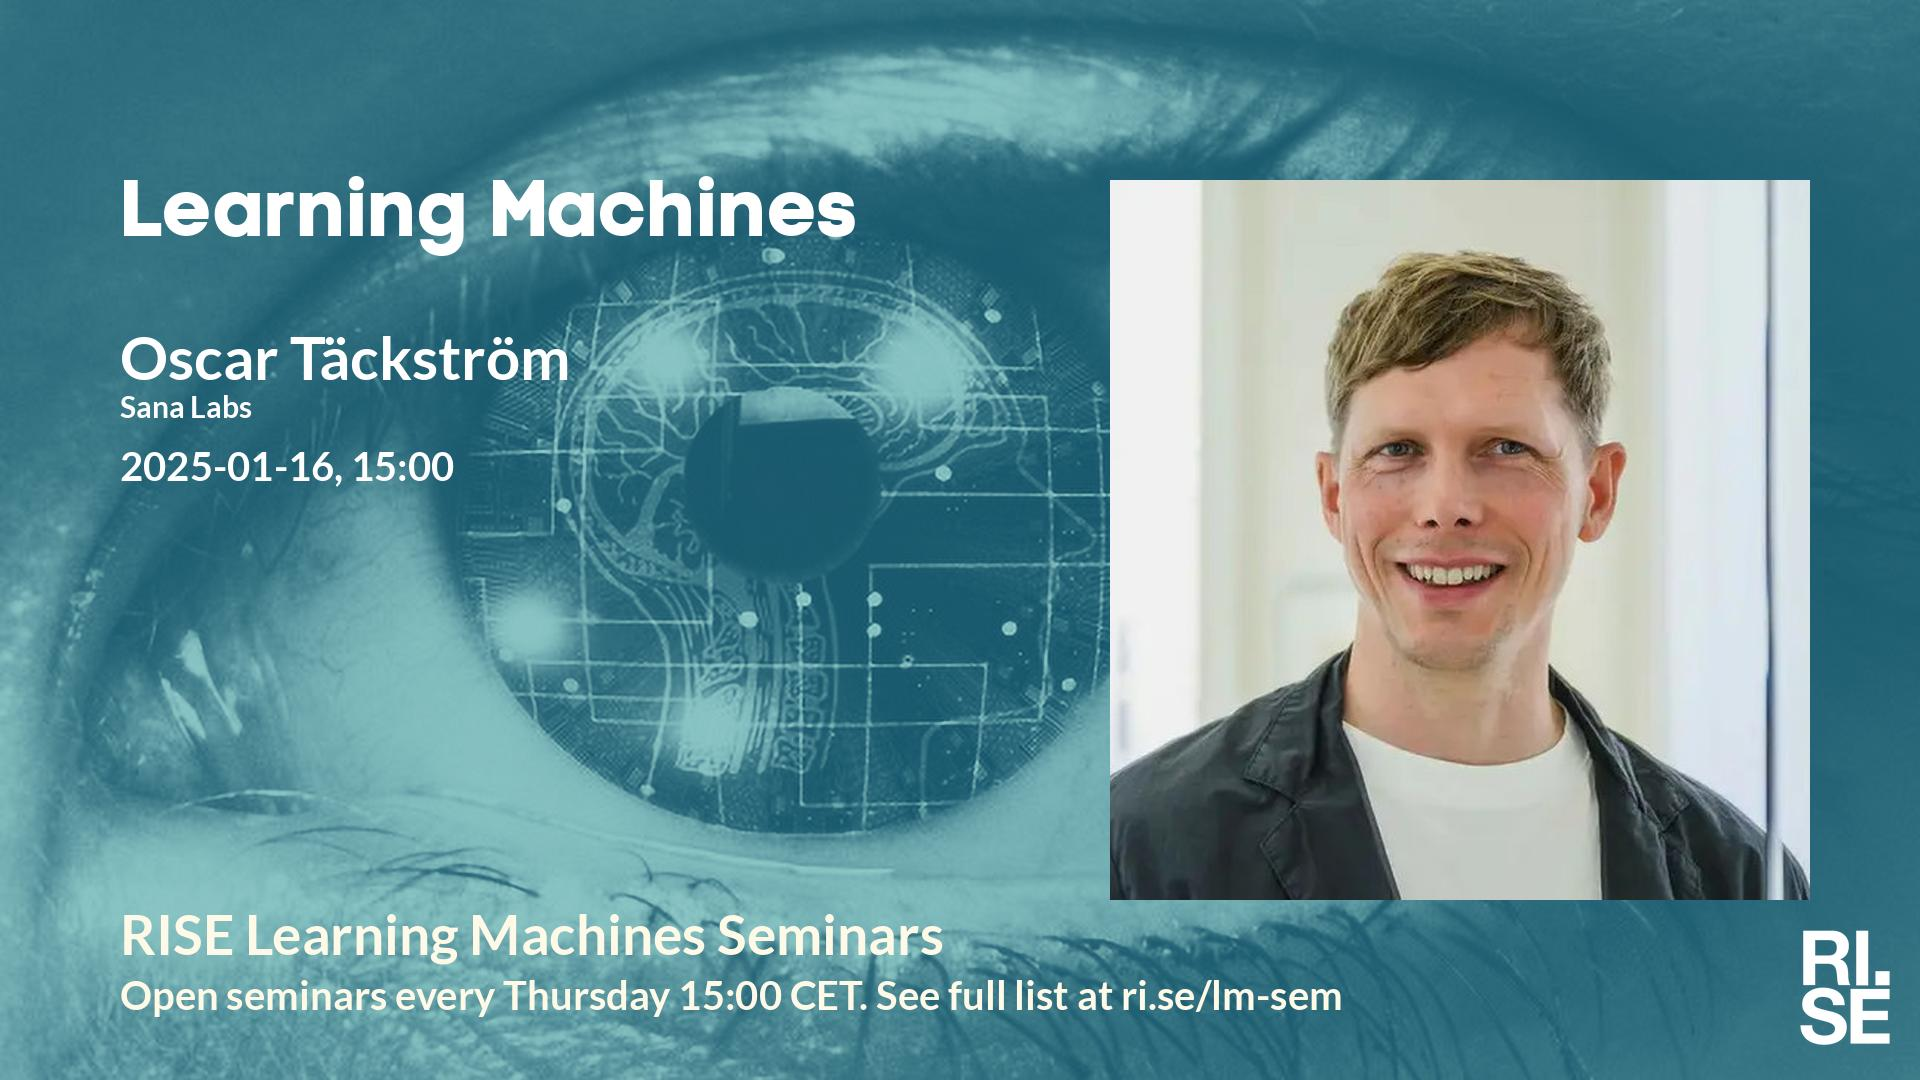
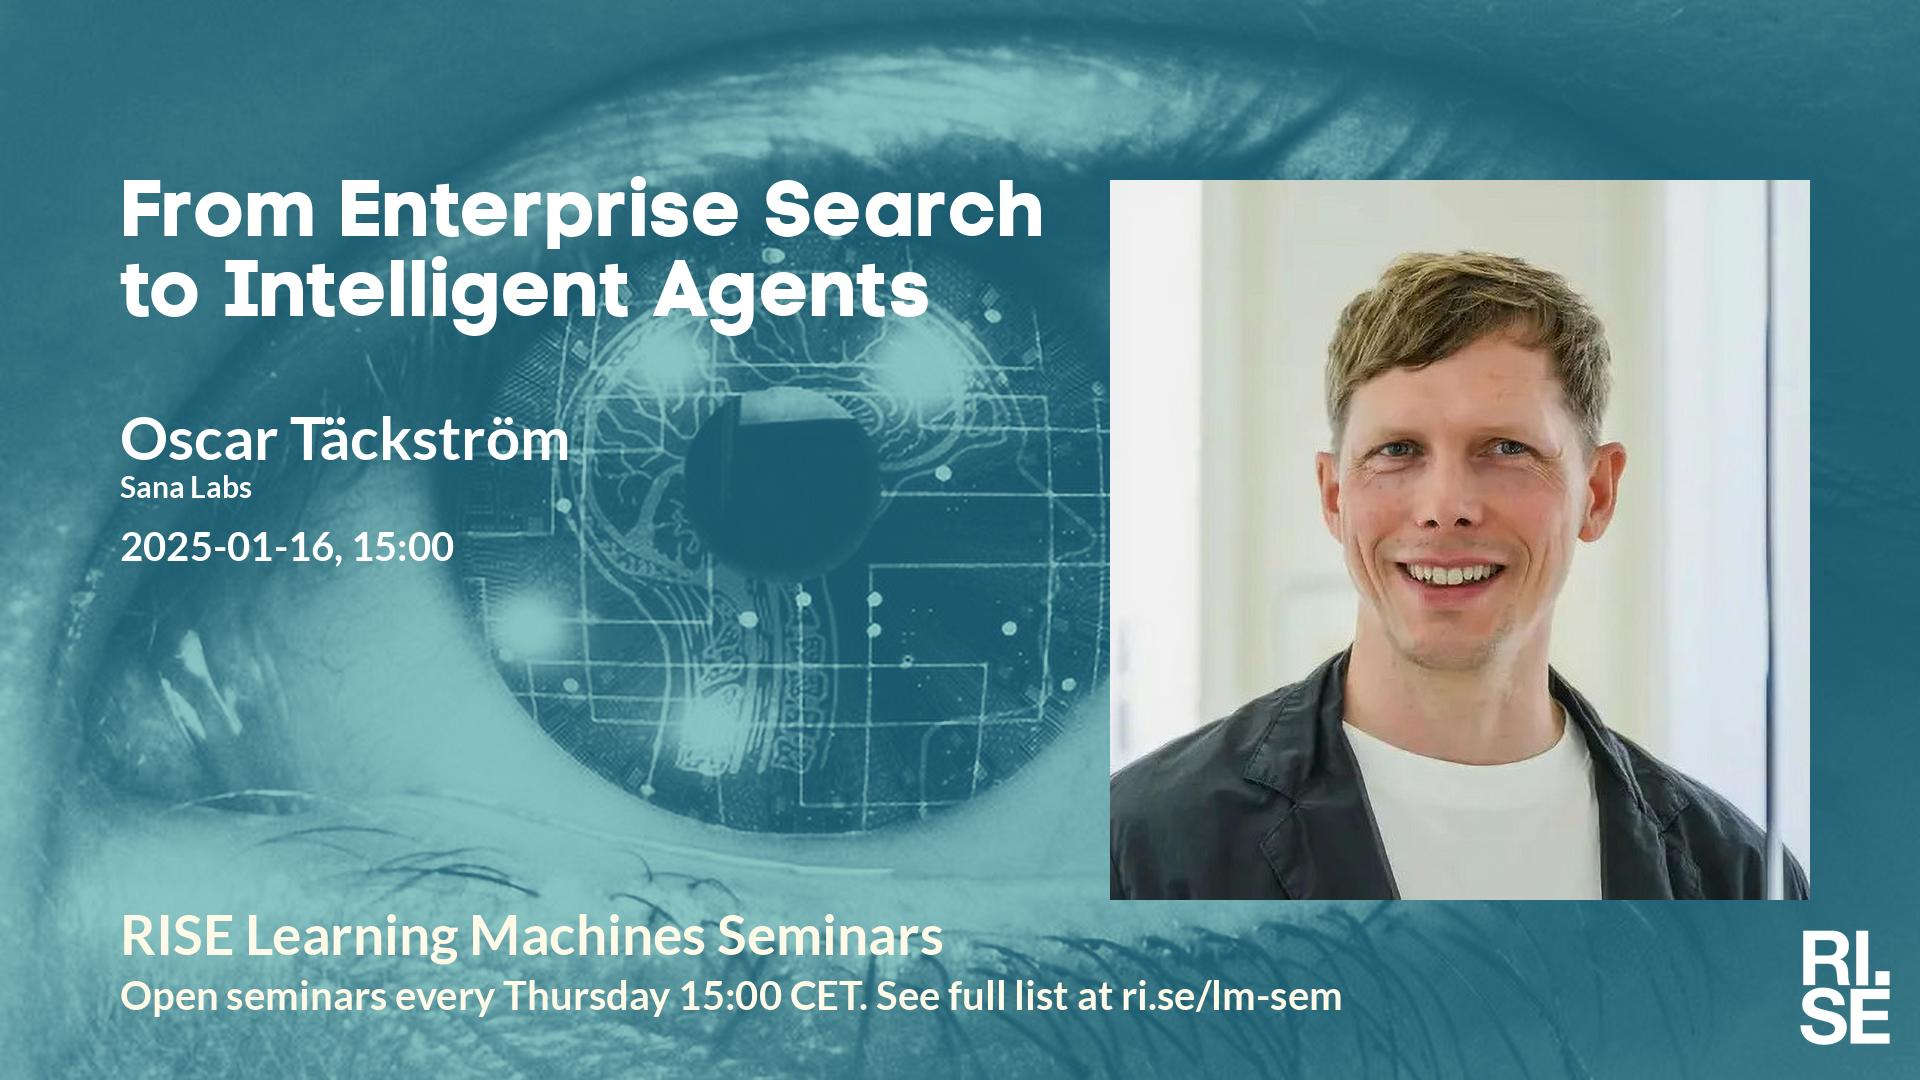
Updated plan on web site.

Changed region(s): [[0.0625, 0.1528, 0.5625, 0.4583], [0.0625, 0.4889, 0.25, 0.5194]]

diff --git a/lm/index.md b/lm/index.md
@@ -14,6 +14,7 @@ table {border-collapse: collapse;}
 | <span style="color:red"> 2024-12-12 </span> | <span style="color:red"> *Up for grabs!!!* </span> | <span style="color:red">  </span> | <span style="color:red">  </span> | <span style="color:red">  </span> | <span style="color:red">  </span> | <span style="color:red"> CANCELLED </span> |
 | <span style="color:red"> 2024-12-19 </span> | <span style="color:red"> Jullov </span> | <span style="color:red">  </span> | <span style="color:red">  </span> | <span style="color:red">  </span> | <span style="color:red">  </span> | <span style="color:red"> CANCELLED </span> |
 | <span style="color:red"> 2024-12-26 </span> | <span style="color:red"> Jullov </span> | <span style="color:red">  </span> | <span style="color:red">  </span> | <span style="color:red">  </span> | <span style="color:red">  </span> | <span style="color:red"> CANCELLED </span> |
+|  2025-01-16  |  [Oscar Täckström, Sana Labs](2025-01-16.md)  |  [photo](photo-oscar-tackstrom.jpg)  |  [social media ](social-media-oscar-tackstrom.jpg)  |  [meeting backdrop ](meeting-backdrop-oscar-tackstrom.jpg)  |  [youtube thumbnail ](youtube-thumbnail-oscar-tackstrom.jpg)  |  STABP  |
 |  2025-01-23  |  [Newton Mwai Kinyanjui, Chalmers University of Technology](2025-01-23.md)  |  [photo](photo-newton-mwai-kinyanjui.jpg)  |  [social media ](social-media-newton-mwai-kinyanjui.jpg)  |  [meeting backdrop ](meeting-backdrop-newton-mwai-kinyanjui.jpg)  |  [youtube thumbnail ](youtube-thumbnail-newton-mwai-kinyanjui.jpg)  |  S~~TA~~BP  |
 |  2025-01-30  |  [Amal Nammouchi, Karlstad University and AfriClimate AI](2025-01-30.md)  |  [photo](photo-amal-nammouchi.jpg)  |  [social media ](social-media-amal-nammouchi.jpg)  |  [meeting backdrop ](meeting-backdrop-amal-nammouchi.jpg)  |  [youtube thumbnail ](youtube-thumbnail-amal-nammouchi.jpg)  |  STABP  |
 | <span style="color:grey"> 2025-02-06 </span> | <span style="color:grey"> Sara H. ? </span> | <span style="color:grey">  </span> | <span style="color:grey">  </span> | <span style="color:grey">  </span> | <span style="color:grey">  </span> | <span style="color:grey"> S~~TABP~~ </span> |
@@ -27,7 +28,7 @@ table {border-collapse: collapse;}
 | <span style="color:purple"> 2025-04-03 </span> | <span style="color:purple"> *Up for grabs!!!* </span> | <span style="color:purple">  </span> | <span style="color:purple">  </span> | <span style="color:purple">  </span> | <span style="color:purple">  </span> | <span style="color:purple"> ~~STABP~~ </span> |
 | <span style="color:purple"> 2025-04-10 </span> | <span style="color:purple"> *Up for grabs!!!* </span> | <span style="color:purple">  </span> | <span style="color:purple">  </span> | <span style="color:purple">  </span> | <span style="color:purple">  </span> | <span style="color:purple"> ~~STABP~~ </span> |
 | <span style="color:red"> 2025-04-17 </span> | <span style="color:red"> Holy Thursday </span> | <span style="color:red">  </span> | <span style="color:red">  </span> | <span style="color:red">  </span> | <span style="color:red">  </span> | <span style="color:red"> CANCELLED </span> |
-| <span style="color:purple"> 2025-04-24 </span> | <span style="color:purple"> *Up for grabs!!!* </span> | <span style="color:purple">  </span> | <span style="color:purple">  </span> | <span style="color:purple">  </span> | <span style="color:purple">  </span> | <span style="color:purple"> ~~STABP~~ </span> |
+|  2025-04-24  |  [John Martinsson, RISE and Lund University](2025-04-24.md)  |    |  [social media ](social-media-john-martinsson.jpg)  |  [meeting backdrop ](meeting-backdrop-john-martinsson.jpg)  |  [youtube thumbnail ](youtube-thumbnail-john-martinsson.jpg)  |  S~~TA~~B~~P~~  |
 | <span style="color:red"> 2025-05-01 </span> | <span style="color:red"> International Workers' Day </span> | <span style="color:red">  </span> | <span style="color:red">  </span> | <span style="color:red">  </span> | <span style="color:red">  </span> | <span style="color:red"> CANCELLED </span> |
 | <span style="color:purple"> 2025-05-08 </span> | <span style="color:purple"> *Up for grabs!!!* </span> | <span style="color:purple">  </span> | <span style="color:purple">  </span> | <span style="color:purple">  </span> | <span style="color:purple">  </span> | <span style="color:purple"> ~~STABP~~ </span> |
 | <span style="color:purple"> 2025-05-15 </span> | <span style="color:purple"> *Up for grabs!!!* </span> | <span style="color:purple">  </span> | <span style="color:purple">  </span> | <span style="color:purple">  </span> | <span style="color:purple">  </span> | <span style="color:purple"> ~~STABP~~ </span> |

diff --git a/lm/2025-01-16.md b/lm/2025-01-16.md
@@ -5,13 +5,18 @@ metatags: "<meta name=\"robots\" content=\"noindex,nofollow\" />"
  
 Welcome to this week's Learning Machines seminar.
 
-**Title:** N/A
+**Title:** From Enterprise Search to Intelligent Agents
 
 **Speaker:** Oscar Täckström, Sana Labs
 
-**Abstract:** N/A
+**Abstract:** The landscape of enterprise knowledge access is rapidly evolving from simple search and discovery, through intelligent assistants, and now towards reasoning agents. I will trace the progression of enterprise AI technologies along these three arcs focusing on the key drivers and give my perspective on where we’re headed and how we take this to heart at Sana.
 
-**About the speaker:** Oscar earned a PhD in Computational Linguistics from Uppsala University in 2013. He has over 15 years of experience with machine learning research and software engineering. Before joining Sana Labs, Oscar spent six years at Google Research, where he worked with neural architectures and loss shaping for language- and video-understanding problems.
+We&#x27;ll dive deep into the lessons we’ve learned from building Retrieval-Augmented Generation (RAG) in real-world contexts, examining how recent advances in test-time compute and agent architectures are reshaping our approach. Central to this exploration is how Large Language Models (LLMs) are fundamentally reimagining document understanding and information retrieval, enabling more nuanced, context-aware, and adaptive intelligent systems.
+
+**About the speaker:** Oscar Täckström is the Chief Scientist at Sana, where he leads all AI efforts. His research background is in natural language understanding and machine learning with notable contributions to attention-based models for language and video generation. Before joining Sana, he co-lead the technical development at Inceptive, applying deep learning to mRNA molecule design. Prior to that he was a senior research scientist at Google. He obtained his PhD from Uppsala University in 2013 and his publications won best paper and test of time awards at NAACL 2013 and ACL 2023.
+
+
+Sana is an AI company on a mission to advance how humans access knowledge with AI. Its products are trusted by leading enterprises like Merck, Hinge Health, Electrolux, and Svea Solar. Backed by top-tier investors including NEA, Menlo Ventures, and EQT Ventures, Sana has raised over $130 million to date.
 
 **Location:** This is an online seminar. Connect using Zoom.
 
@@ -24,6 +29,7 @@ Welcome to this week's Learning Machines seminar.
 * 2025-01-23: Newton Mwai Kinyanjui, Chalmers University of Technology
 * 2025-01-30: Amal Nammouchi, Karlstad University and AfriClimate AI
 * 2025-02-20: Abdulhakim Abdi, Lund University
+* 2025-03-06: Atakan Aral, University of Vienna
 * All seminars are 15:00 CET.
 
 More information and coming seminars: [https://ri.se/lm-sem](https://ri.se/lm-sem)

diff --git a/lm/2025-04-24.md b/lm/2025-04-24.md
@@ -1,0 +1,29 @@
+---
+layout: default
+metatags: "<meta name=\"robots\" content=\"noindex,nofollow\" />"
+---
+ 
+Welcome to this week's Learning Machines seminar.
+
+**Title:** N/A
+
+**Speaker:** John Martinsson, RISE and Lund University
+
+**Abstract:** N/A
+
+**About the speaker:** John Martinsson is a PhD candidate at RISE Research Institutes of Sweden and Lund University. His research interests lie in applying machine learning to automated sensing and perception of natural environments, particularly through sound. He aims to develop machine listening methods that help monitor the impacts humans have on ecosystems by enabling automated species detection and biodiversity estimation in bioacoustic data.
+
+**Location:** This is an online seminar. Connect using Zoom.
+
+**Date:** 2025-04-24 15:00
+
+**Zoom link:** [N/A](N/A)
+
+**Upcoming seminars:**
+
+* All seminars are 15:00 CET.
+
+More information and coming seminars: [https://ri.se/lm-sem](https://ri.se/lm-sem)
+
+-- The Learning Machines Team
+
